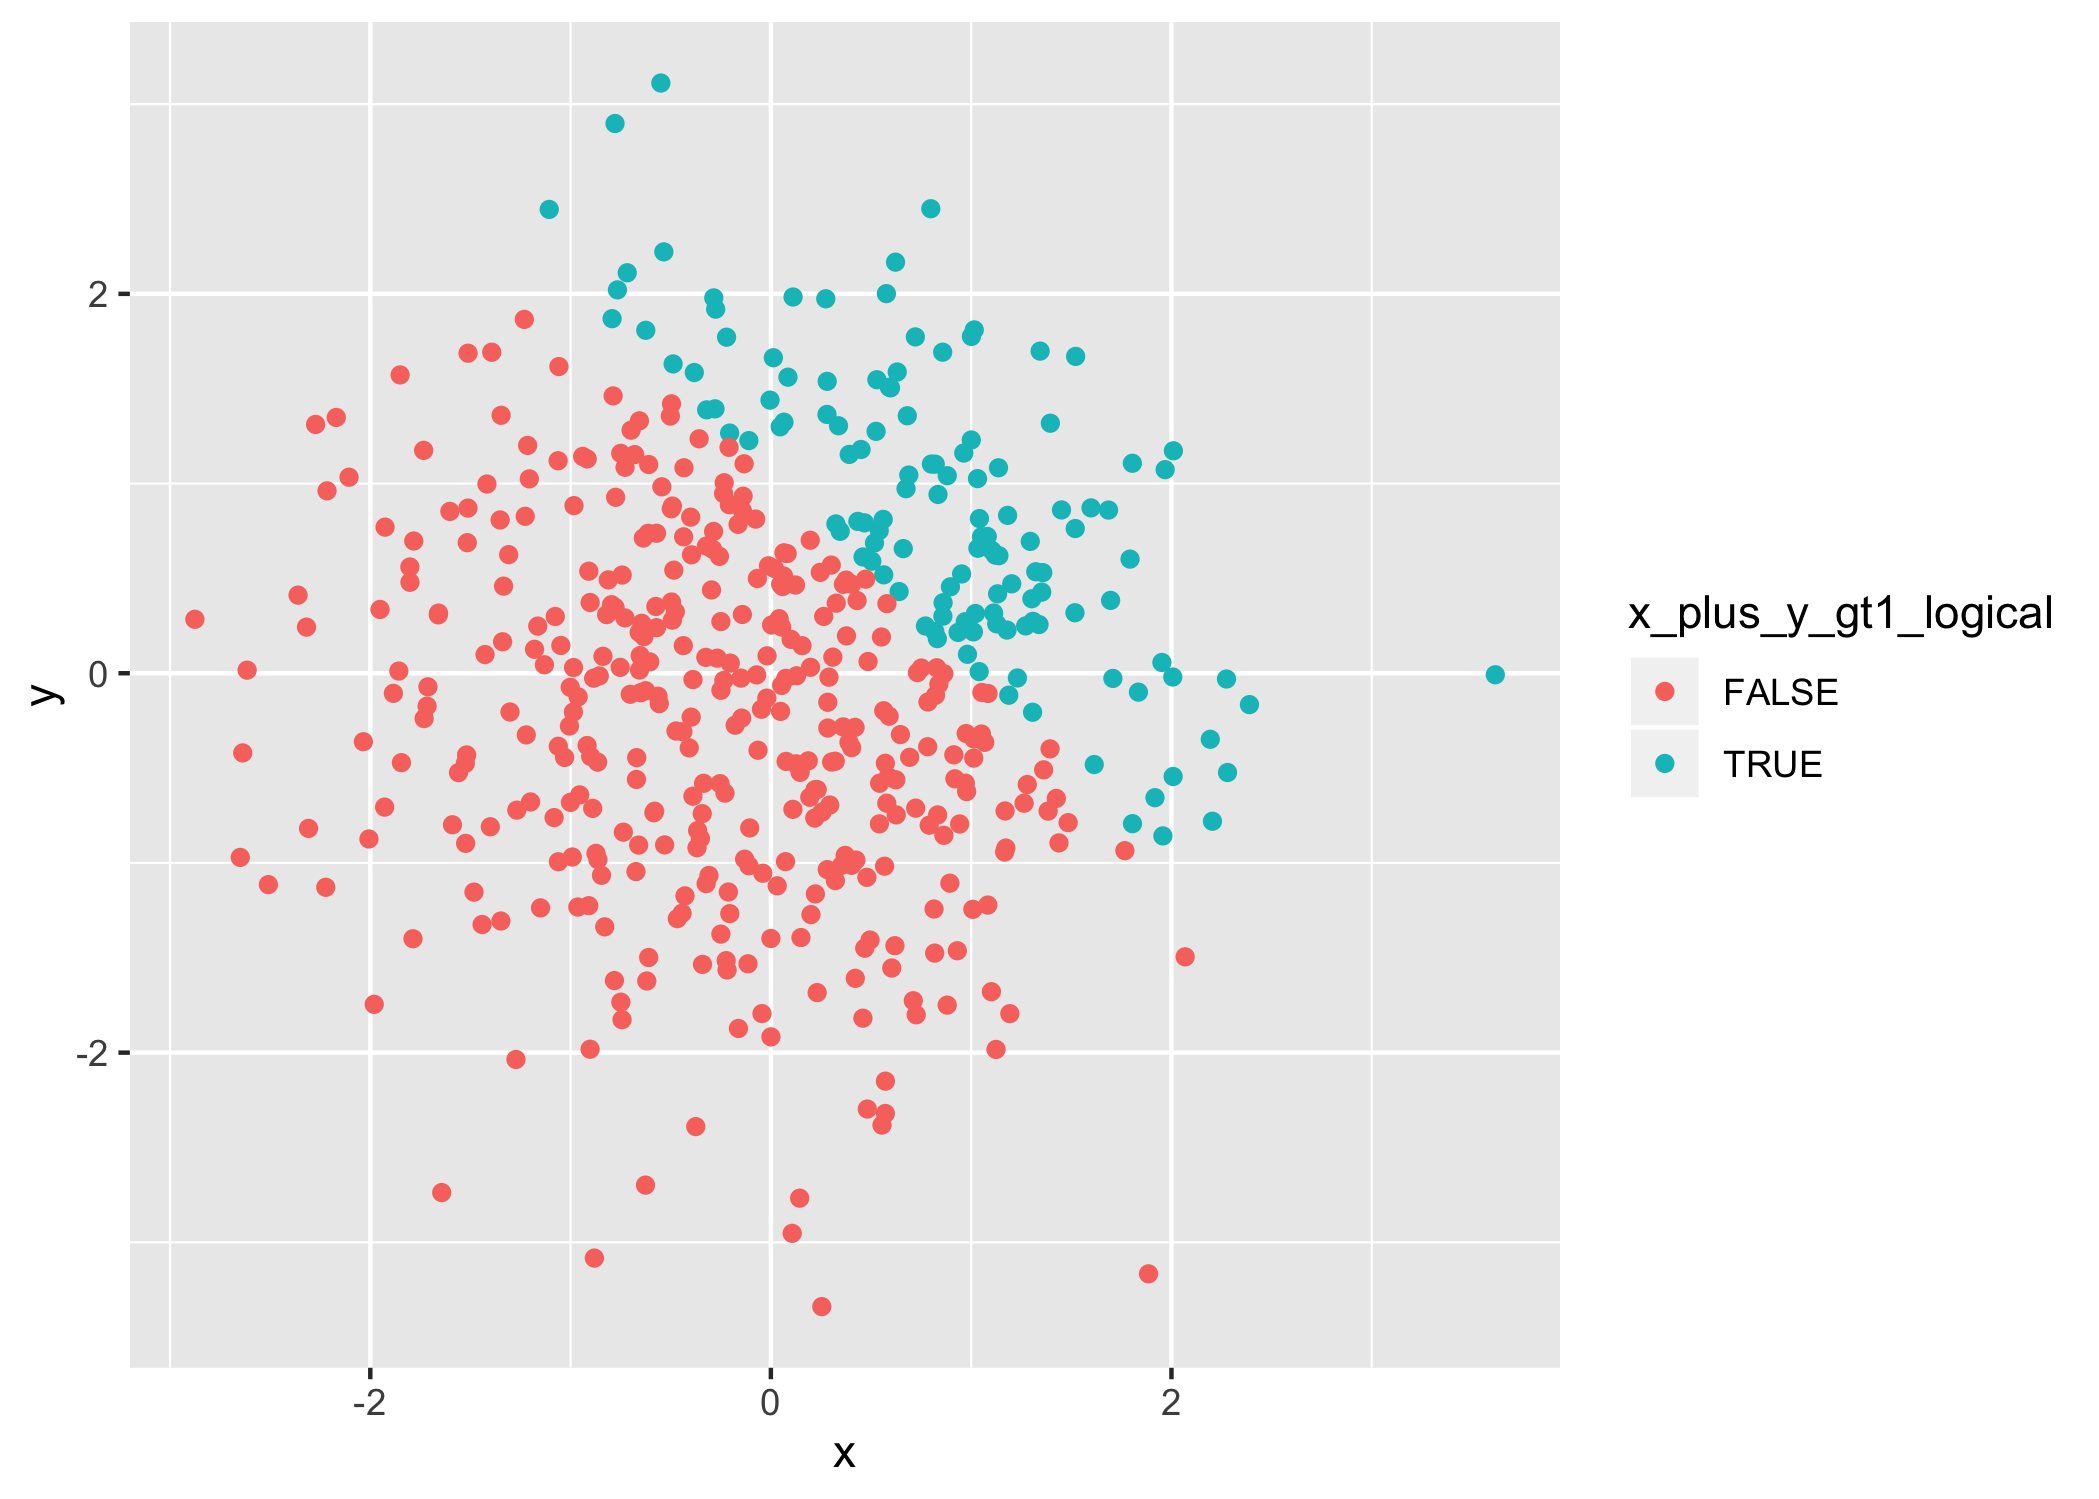
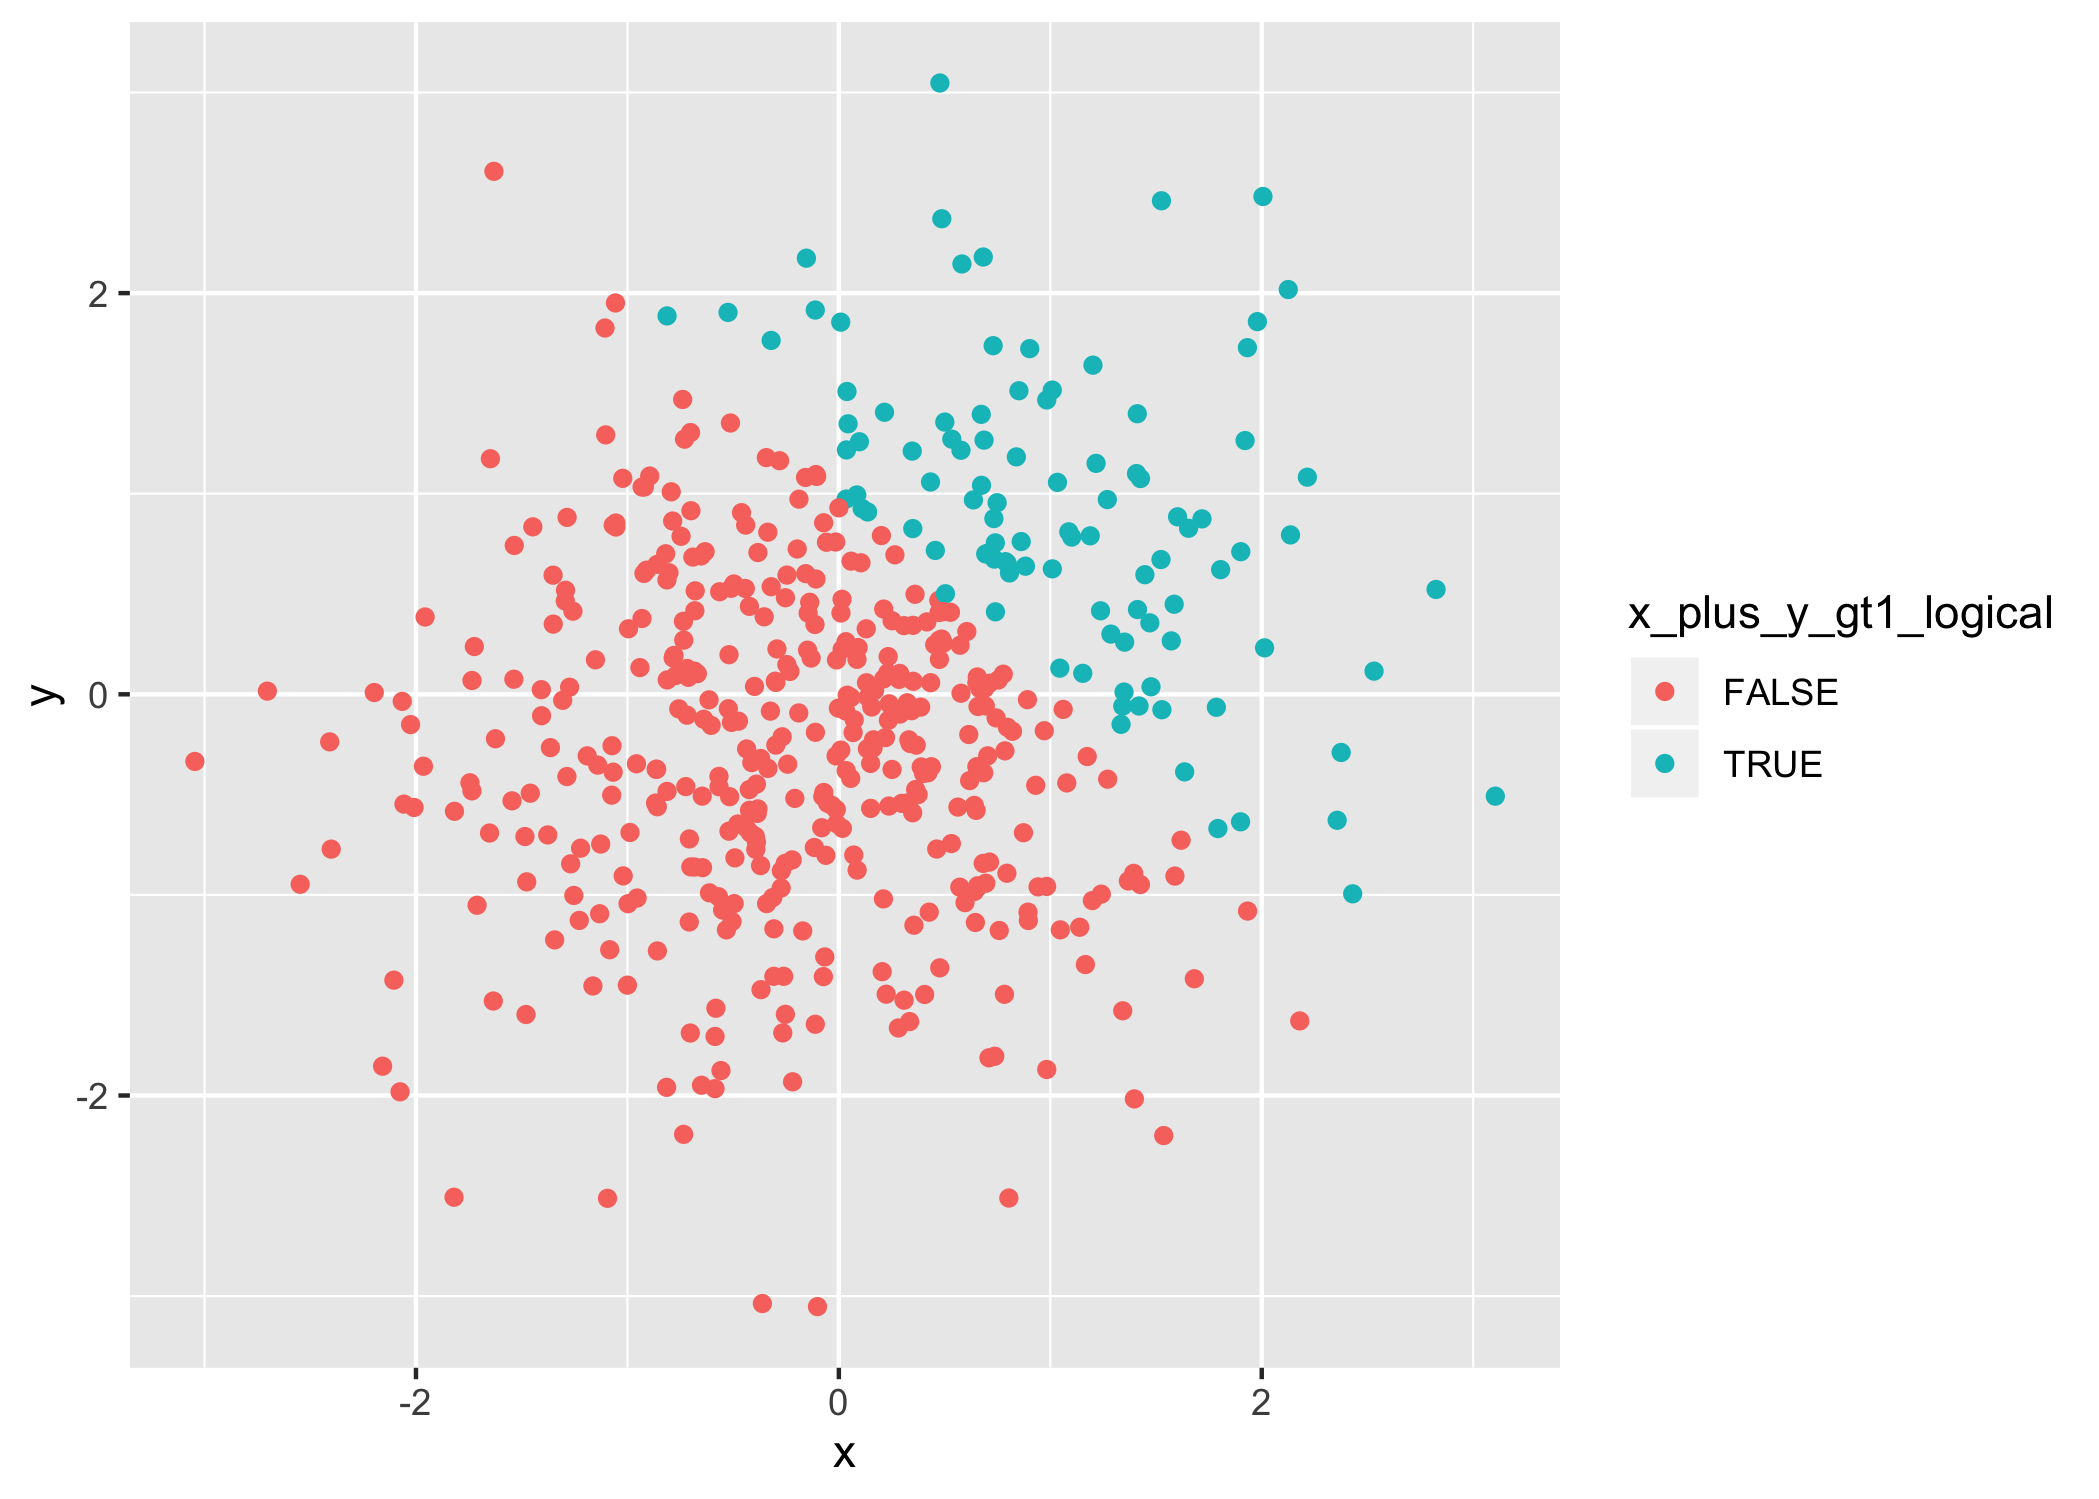
Add details to README file, add comments and commentary to .RMD file

diff --git a/p8105_hw1_jl4443.md b/p8105_hw1_jl4443.md
@@ -6,27 +6,35 @@ Jessica Lavery
 # Problem 1
 
 ``` r
+# create data frame per specifications in HW1
 df <- tibble(
   norm_samp = rnorm(8),
-  sample_ge0 = norm_samp >= 0, 
+  sample_ge0 = (norm_samp >= 0), 
   character_vector = c("one", "two", "three", "four", "five", "six", "seven", "eight"),
   factor_vector = factor(x = c("a", "b", "c", "a", "a", "b", "c", "c"), levels = c("a", "b", "c"))
 )
+```
 
-#try to take the mean of each variable
+From the above data frame, we can try to take the mean of each type of
+variable (numeric, logical, character and factor). We see that the mean
+cannot be computed for character or factor varibles based on the warning
+messages below.
+
+``` r
+# try to take the mean of each variable
 mean(pull(df, norm_samp))
 ```
 
-    ## [1] -0.4520197
+    ## [1] 0.3220115
 
 ``` r
 mean(pull(df, sample_ge0))
 ```
 
-    ## [1] 0.125
+    ## [1] 0.625
 
 ``` r
-mean(pull(df, character_vector)) #error: argument is not numeric or logical: returning NA[1] NA
+mean(pull(df, character_vector)) 
 ```
 
     ## Warning in mean.default(pull(df, character_vector)): argument is not
@@ -35,7 +43,7 @@ mean(pull(df, character_vector)) #error: argument is not numeric or logical: ret
     ## [1] NA
 
 ``` r
-mean(pull(df, factor_vector)) #error: argument is not numeric or logical: returning NA[1] NA
+mean(pull(df, factor_vector)) 
 ```
 
     ## Warning in mean.default(pull(df, factor_vector)): argument is not numeric
@@ -43,9 +51,21 @@ mean(pull(df, factor_vector)) #error: argument is not numeric or logical: return
 
     ## [1] NA
 
+Alternatively, we could try to coerce each non-numeric variable to a
+numeric variable to then try to compute the mean (output not shown). The
+logical variable is converted to a numeric variable with 0’s (FALSE) and
+1’s (TRUE), and the mean can be computed. The function `as.numeric`
+explicitly converted the logical vector to a numeric vector, which
+appears to be what happened in the above exercise taking the mean of a
+logical vector automatically. However, the character and factor
+variables still produce a warning and a mean is not calculated (a value
+of NA is returned).
+
 ``` r
+#coerce the logical variable to numeric and try to take the mean
 mean(pull(df, as.numeric(sample_ge0)))
 
+#coerce the character variable to numeric and try to take the mean
 mean(pull(df, as.numeric(character_vector)))
 ```
 
@@ -53,24 +73,30 @@ mean(pull(df, as.numeric(character_vector)))
     ## is not numeric or logical: returning NA
 
 ``` r
+#coerce the factor variable to numeric and try to take the mean
 mean(pull(df, as.numeric(factor_vector)))
 ```
 
     ## Warning in mean.default(pull(df, as.numeric(factor_vector))): argument is
     ## not numeric or logical: returning NA
 
-The logical variable is converted to a numeric variable with 0’s (FALSE)
-and 1’s (TRUE), and the mean is able to be computed using the
-`as.numeric` function. However, the character and factor variables still
-produce an
-error.
+We can convert the logical vector and try to perform some operations.
+When the logical vector is converted to a numeric vector, we are able to
+multiply it by the mean of the random sample. When the logical vector is
+converted to a factor, we cannot multiply the factor vector by the mean
+of the random sample. However, converting the logical vector to a factor
+vector and then to a numeric vector does allow us to perform a
+mathematical operation on the vector by multiplying it by the mean of
+the
+result.
 
 ``` r
 #convert the logical vector to numeric and multiply the random sample by the result.
 as.numeric(pull(df,sample_ge0)) * pull(df, norm_samp)
 ```
 
-    ## [1] 0.000000 0.000000 0.000000 1.708322 0.000000 0.000000 0.000000 0.000000
+    ## [1] 0.0000000 1.0158786 0.0000000 1.5339783 0.3801067 0.5897175 0.0000000
+    ## [8] 1.5308602
 
 ``` r
 #convert the logical vector to a factor, and multiply the random sample by the result.
@@ -87,8 +113,8 @@ as.factor(pull(df,sample_ge0)) * pull(df, norm_samp)
 as.numeric(as.factor(pull(df,sample_ge0))) * pull(df, norm_samp)
 ```
 
-    ## [1] -0.6744558 -0.5085175 -0.1100215  3.4166435 -1.6252646 -0.2970513
-    ## [7] -1.7697727 -0.3393957
+    ## [1] -0.5426848  2.0317572 -0.9507415  3.0679566  0.7602133  1.1794350
+    ## [7] -0.9810228  3.0617204
 
 # Problem 2
 
@@ -103,8 +129,10 @@ df2 <- tibble(
 ```
 
 The dataset includes 5 variables with 500 observations. Variable x has
-mean -0.0180463 and standard deviation 1.020423. From the random
-samples, 25.8% of instances have x + y \> 1.
+mean 0.002953 and standard deviation 0.982574. From the random samples,
+20.2% of instances have x + y \> 1.
+
+## Figure 1
 
 ``` r
 ggplot(data = df2, aes(x = x, y = y, color = x_plus_y_gt1_logical)) +
@@ -120,6 +148,11 @@ ggsave(filename = "hw1_figure1_logical_color_scale.png")
 
     ## Saving 7 x 5 in image
 
+Using a logical factor to create the color scale results in two distinct
+colors: one color per each logical response (TRUE/FALSE).
+
+## Figure 2
+
 ``` r
 ggplot(data = df2, aes(x = x, y = y, color = x_plus_y_gt1_numeric)) +
   geom_point()
@@ -129,8 +162,11 @@ ggplot(data = df2, aes(x = x, y = y, color = x_plus_y_gt1_numeric)) +
 
 Using a numeric variable to indicate the color of the scatterplot
 results in a color gradient spanning the range of the variable, despite
-the fact that there are no instances of the variable having a value
-between 0 and 1.
+the fact that only the two extreme colors show up on the actual plot
+because there are no instances of the variable having a value between 0
+and 1.
+
+## Figure 3
 
 ``` r
 ggplot(data = df2, aes(x = x, y = y, color = x_plus_y_gt1_factor)) +
@@ -141,4 +177,4 @@ ggplot(data = df2, aes(x = x, y = y, color = x_plus_y_gt1_factor)) +
 
 Using a factor variable to determine the color of the points on the
 scatterplot is similar to using the logical variable to indicate the
-color.
+color. There is one color per level of the factor (TRUE, FALSE).

diff --git a/README.md b/README.md
@@ -1,1 +1,3 @@
 # p8105_hw1_jl4443
+
+This project includes the RMarkdown document and results for the first homework assignment in P8105. 
